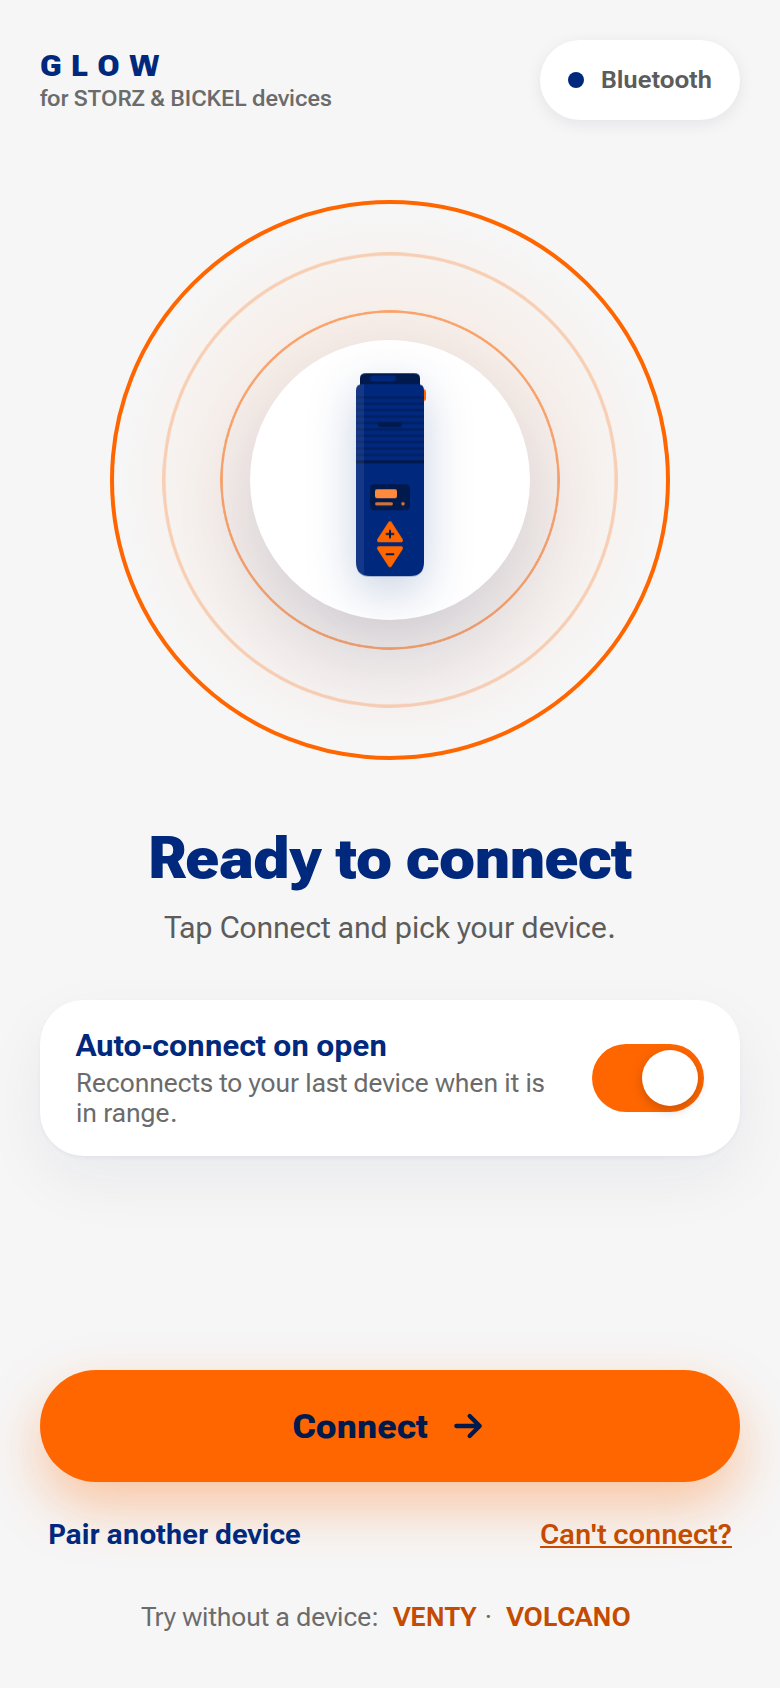
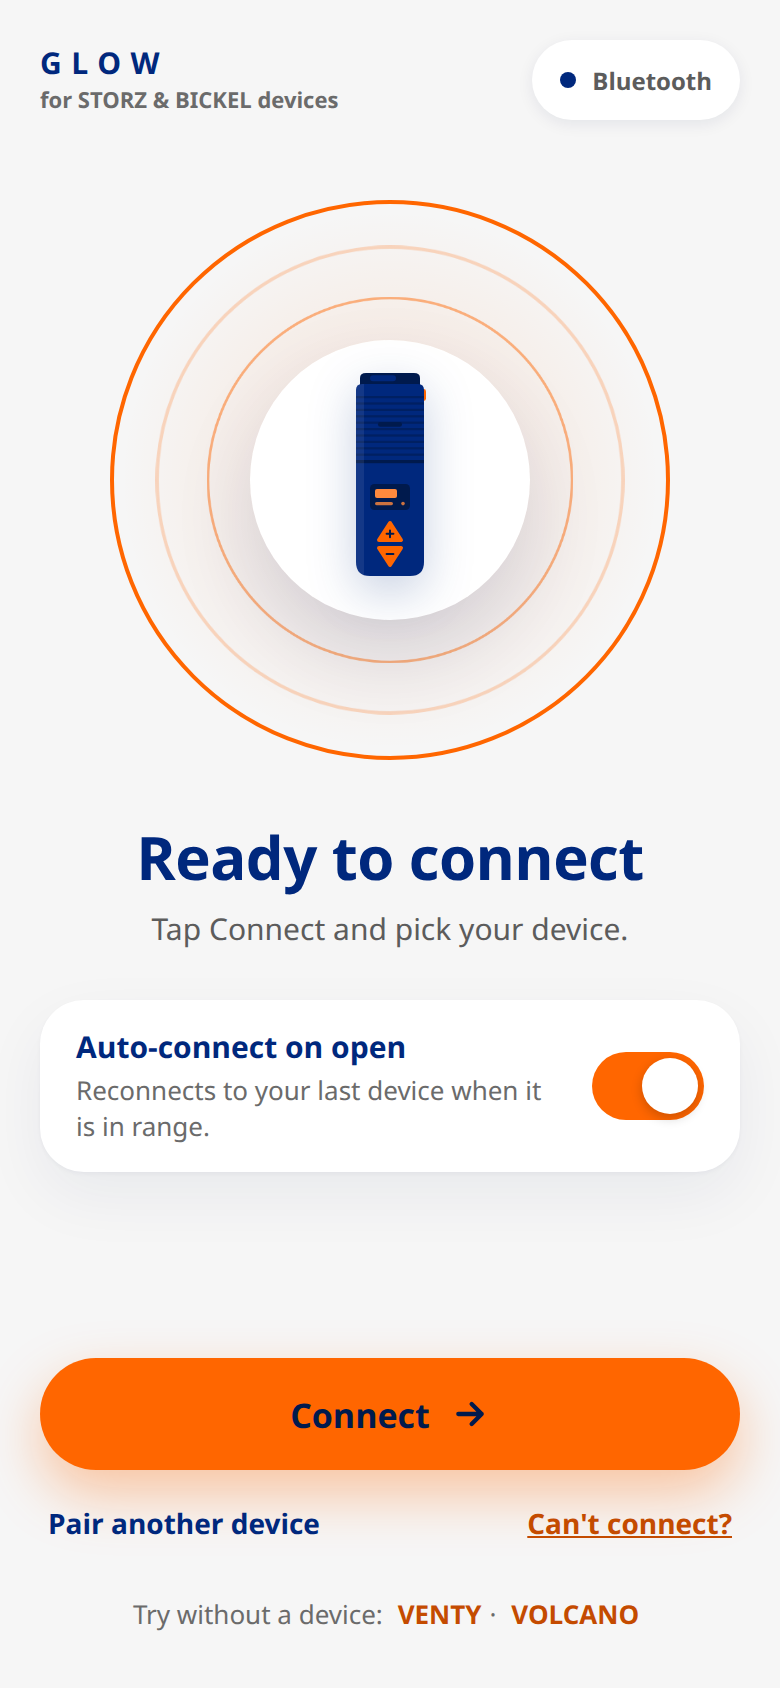
README: screenshots with the Stats tab and "Ready in", Stats in the features
All screenshots redone with scripts/readme-screenshots.mjs: the bottom
bar now has Stats, the CRAFTY+ status line counts down to Ready, and a
Stats screenshot joins the grid (four in the first row now). Features
list Stats.

Claude-Session: https://claude.ai/code/session_0193EabqFTsp5WAwiWCyHrrw

diff --git a/README.md b/README.md
@@ -18,18 +18,19 @@ VENTY · VEAZY · CRAFTY · CRAFTY+ · VOLCANO HYBRID
 
 <table>
   <tr>
-    <td align="center"><img src="docs/screenshots/connect.png" width="220" alt="Connect screen"><br><sub>Connect</sub></td>
-    <td align="center"><img src="docs/screenshots/crafty.png" width="220" alt="CRAFTY+ dashboard while heating"><br><sub>CRAFTY+ heating</sub></td>
-    <td align="center"><img src="docs/screenshots/venty.png" width="220" alt="VENTY dashboard, ready"><br><sub>VENTY ready</sub></td>
+    <td align="center"><img src="docs/screenshots/connect.png" width="200" alt="Connect screen"><br><sub>Connect</sub></td>
+    <td align="center"><img src="docs/screenshots/crafty.png" width="200" alt="CRAFTY+ dashboard while heating, counting down to Ready"><br><sub>CRAFTY+ heating</sub></td>
+    <td align="center"><img src="docs/screenshots/venty.png" width="200" alt="VENTY dashboard, ready"><br><sub>VENTY ready</sub></td>
+    <td align="center"><img src="docs/screenshots/stats.png" width="200" alt="Stats: a session's chart and facts"><br><sub>Stats</sub></td>
   </tr>
   <tr>
-    <td align="center"><img src="docs/screenshots/volcano-workflows.png" width="220" alt="VOLCANO workflows"><br><sub>VOLCANO workflows</sub></td>
-    <td align="center"><img src="docs/screenshots/settings.png" width="220" alt="CRAFTY+ settings"><br><sub>Settings</sub></td>
-    <td align="center"><img src="docs/screenshots/diagnostics.png" width="220" alt="Device diagnostics"><br><sub>Device diagnostics</sub></td>
+    <td align="center"><img src="docs/screenshots/volcano-workflows.png" width="200" alt="VOLCANO workflows"><br><sub>VOLCANO workflows</sub></td>
+    <td align="center"><img src="docs/screenshots/settings.png" width="200" alt="CRAFTY+ settings"><br><sub>Settings</sub></td>
+    <td align="center"><img src="docs/screenshots/diagnostics.png" width="200" alt="Device diagnostics"><br><sub>Device diagnostics</sub></td>
   </tr>
 </table>
 
-<sub>Screenshots from demo mode: <code>npm run dev</code>, then <code>/?demo=venty</code>, <code>/?demo=crafty</code> or <code>/?demo=volcano</code>.</sub>
+<sub>Screenshots from demo mode (<code>npm run dev</code>, then <code>/?demo=venty</code>, <code>/?demo=crafty</code> or <code>/?demo=volcano</code>), made by <code>scripts/readme-screenshots.mjs</code>.</sub>
 
 ## Features
 
@@ -42,6 +43,9 @@ VENTY · VEAZY · CRAFTY · CRAFTY+ · VOLCANO HYBRID
   line that mirrors the device LED and counts down to Ready (learnt from the device's earlier
   heat-ups and reheats), Booster / Superbooster, and lifetime hours of operation counting up live,
   with usage per month.
+- 📊 **Stats.** A tab with each session as a chart (temperature against the target, Ready, boosts
+  and the cool-down) and its facts, hours of operation by day, week or month, and a timeline of
+  every session Glow saw. Tapping Hours of operation on the dashboard opens it.
 - 🔋 **Battery.** Level, charging and charged, with the charge animating up to full.
 - 🌋 **VOLCANO workflows.** Flow 1–3 and Balloon run from the phone, step by step, with time
   running and time left.
